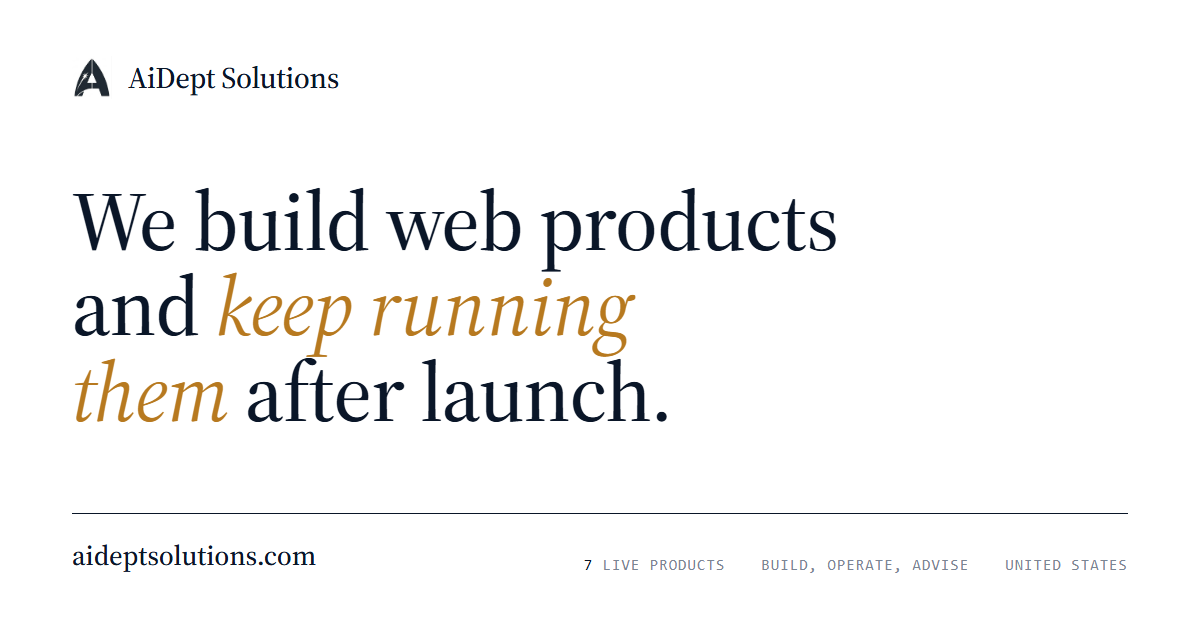
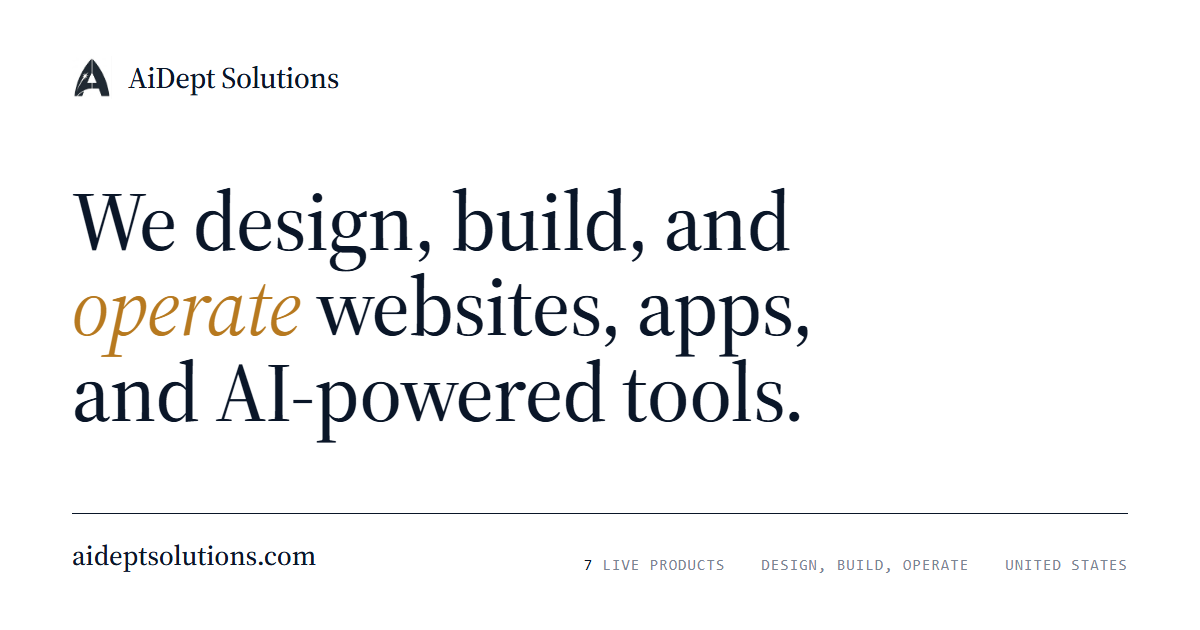
Reframe AiDept as a product studio that designs, builds, and operates
Drop the consulting framing. New headline and meta copy, What we do becomes Design, Build, Operate, process reframed around our own products, FAQ rewritten, contact reframed as Get in touch with matching form options. Remove the ProfessionalService schema and offer catalog; keep Organization and regenerate FAQPage. Re-render the OG card with the new headline.

Changed region(s): [[0.0617, 0.3016, 0.7092, 0.7238], [0.6167, 0.8746, 0.8017, 0.9048]]

diff --git a/index.html b/index.html
@@ -11,8 +11,8 @@
 </script>
 <meta charset="UTF-8">
 <meta name="viewport" content="width=device-width, initial-scale=1.0">
-<title>AiDept Solutions | We build web products and keep running them</title>
-<meta name="description" content="AiDept Solutions is a small operator studio. We design, ship, and run web products and trading systems, built to be found in search and cited by AI answer engines.">
+<title>AiDept Solutions | We design, build, and operate websites, apps, and AI tools</title>
+<meta name="description" content="AiDept Solutions is a product studio. We design, build, and operate our own websites, apps, and AI-powered tools, from consumer sites to trading systems, and keep running them after launch.">
 <meta name="robots" content="index, follow">
 <link rel="canonical" href="https://www.aideptsolutions.com/">
 <link rel="icon" type="image/svg+xml" href="/favicon.svg">
@@ -21,19 +21,19 @@
 
 <!-- Open Graph -->
 <meta property="og:type" content="website">
-<meta property="og:title" content="AiDept Solutions | We build web products and keep running them">
-<meta property="og:description" content="AiDept Solutions is a small operator studio. We design, ship, and run web products and trading systems, built to be found in search and cited by AI answer engines.">
+<meta property="og:title" content="AiDept Solutions | We design, build, and operate websites, apps, and AI tools">
+<meta property="og:description" content="AiDept Solutions is a product studio. We design, build, and operate our own websites, apps, and AI-powered tools, from consumer sites to trading systems, and keep running them after launch.">
 <meta property="og:url" content="https://www.aideptsolutions.com/">
 <meta property="og:site_name" content="AiDept Solutions">
 <meta property="og:image" content="https://www.aideptsolutions.com/og/card.png">
 <meta property="og:image:width" content="1200">
 <meta property="og:image:height" content="630">
-<meta property="og:image:alt" content="AiDept Solutions: we build web products and keep running them after launch.">
+<meta property="og:image:alt" content="AiDept Solutions: we design, build, and operate websites, apps, and AI-powered tools.">
 
 <!-- Twitter -->
 <meta name="twitter:card" content="summary_large_image">
-<meta name="twitter:title" content="AiDept Solutions | We build web products and keep running them">
-<meta name="twitter:description" content="AiDept Solutions is a small operator studio. We design, ship, and run web products and trading systems, built to be found in search and cited by AI answer engines.">
+<meta name="twitter:title" content="AiDept Solutions | We design, build, and operate websites, apps, and AI tools">
+<meta name="twitter:description" content="AiDept Solutions is a product studio. We design, build, and operate our own websites, apps, and AI-powered tools, from consumer sites to trading systems, and keep running them after launch.">
 <meta name="twitter:image" content="https://www.aideptsolutions.com/og/card.png">
 
 <link rel="preconnect" href="https://fonts.googleapis.com">
@@ -46,62 +46,18 @@
   "@type": "Organization",
   "name": "AiDept Solutions",
   "url": "https://www.aideptsolutions.com",
-  "description": "AiDept Solutions is a small operator studio. We design, ship, and run web products and trading systems, built to be found in search and cited by AI answer engines.",
+  "description": "AiDept Solutions is a product studio. We design, build, and operate our own websites, apps, and AI-powered tools, from consumer sites to trading systems, and keep running them after launch.",
   "email": "AJ@aideptsolutions.com",
   "areaServed": "United States",
   "knowsAbout": [
-    "Web product development",
-    "Managed product operations",
+    "Website and web app design",
+    "Product development",
+    "AI agents and automation",
+    "Algorithmic trading systems",
     "Search engine optimization",
     "Answer engine optimization",
-    "Paid media and return on ad spend",
-    "Custom AI agents and automation",
-    "Algorithmic trading systems",
-    "AI strategy advisory"
+    "Product operations"
   ]
-}
-</script>
-
-<script type="application/ld+json">
-{
-  "@context": "https://schema.org",
-  "@type": "ProfessionalService",
-  "name": "AiDept Solutions",
-  "url": "https://www.aideptsolutions.com",
-  "description": "AiDept Solutions builds and operates web products: product and site builds, managed operations and growth, search and answer-engine optimization, paid media, custom AI agents, and AI strategy advisory.",
-  "priceRange": "$$",
-  "email": "AJ@aideptsolutions.com",
-  "areaServed": {
-    "@type": "Country",
-    "name": "United States"
-  },
-  "hasOfferCatalog": {
-    "@type": "OfferCatalog",
-    "name": "Build, Operate, Advise",
-    "itemListElement": [
-      {
-        "@type": "Offer",
-        "itemOffered": {
-          "@type": "Service",
-          "name": "Build: web products, sites, custom AI agents and automation"
-        }
-      },
-      {
-        "@type": "Offer",
-        "itemOffered": {
-          "@type": "Service",
-          "name": "Operate: managed operations, SEO and answer-engine optimization, paid media"
-        }
-      },
-      {
-        "@type": "Offer",
-        "itemOffered": {
-          "@type": "Service",
-          "name": "Advise: AI strategy, vendor and tool vetting, governance and policy"
-        }
-      }
-    ]
-  }
 }
 </script>
 
@@ -112,50 +68,42 @@
   "mainEntity": [
     {
       "@type": "Question",
-      "name": "Do you take on outside work, or only build your own?",
+      "name": "What is AiDept Solutions?",
       "acceptedAnswer": {
         "@type": "Answer",
-        "text": "Both. Most of our time goes into our own products. We also take on a small number of build-and-operate engagements each year, plus advisory for teams that want guidance without a build."
+        "text": "A small product studio that designs, builds, and operates its own websites, apps, and AI-powered tools. Seven products are live today, plus the trading systems above. Everything on this page is ours."
       }
     },
     {
       "@type": "Question",
-      "name": "What does \"answer engine optimization\" mean?",
+      "name": "Do you take on outside projects?",
       "acceptedAnswer": {
         "@type": "Answer",
-        "text": "Getting your business cited in answers from ChatGPT, Google AI Overviews, and Perplexity. More people now ask an AI instead of scrolling results. We structure content, data, and schema so those engines pull from you."
+        "text": "Occasionally, by referral, when a project fits what we already build. Most of our time goes into our own products."
       }
     },
     {
       "@type": "Question",
-      "name": "How do you improve return on ad spend?",
+      "name": "Why does a product studio build trading systems?",
       "acceptedAnswer": {
         "@type": "Answer",
-        "text": "The whole funnel has to work, so we tighten targeting and creative, fix the landing pages and tracking in between, and send paid traffic only to pages built to convert."
+        "text": "They are the hardest software we make: live data, real money, and an unforgiving scoreboard. The discipline they demand, prove the edge first, cap the downside, log everything, carries into every product we ship."
       }
     },
     {
       "@type": "Question",
-      "name": "Do you operate things ongoing, or hand off after launch?",
+      "name": "What does answer engine optimization mean for your products?",
       "acceptedAnswer": {
         "@type": "Answer",
-        "text": "Operating is the default. We run our own products daily, and we offer the same managed operations for anything we build: monitoring, content, search upkeep, performance tuning, and steady iteration."
+        "text": "People increasingly ask ChatGPT, Google AI Overviews, or Perplexity instead of scrolling results. We structure each product's content, data, and schema so those engines can cite it, alongside conventional search."
       }
     },
     {
       "@type": "Question",
-      "name": "Do you push specific vendors or platforms?",
+      "name": "How is user data handled across your products?",
       "acceptedAnswer": {
         "@type": "Answer",
-        "text": "No. We build on whatever fits your stack, budget, and goals, and we take no referral fees. Our incentive is your results."
-      }
-    },
-    {
-      "@type": "Question",
-      "name": "How is data handled?",
-      "acceptedAnswer": {
-        "@type": "Answer",
-        "text": "Every engagement starts with a data-handling review. We use reputable platforms with proper data-processing terms, apply access controls and PII handling, and write a plain-English policy your team can follow."
+        "text": "Each product collects the minimum it needs. Calculators like DollarShuffle store nothing a visitor enters. Where accounts exist, data sits with reputable providers under proper data-processing terms, with access controls and a plain-English privacy policy."
       }
     }
   ]
@@ -389,24 +337,24 @@
     <a href="#top" class="brand"><img src="/favicon.svg" alt=""> AiDept Solutions</a>
     <div class="nav-links">
       <a href="#work">Work</a>
-      <a href="#services">Services</a>
+      <a href="#services">What we do</a>
       <a href="#tools">Tools</a>
       <a href="#process">Process</a>
       <a href="#questions">Questions</a>
     </div>
-    <a href="#contact" class="nav-cta">Start a project</a>
+    <a href="#contact" class="nav-cta">Get in touch</a>
   </div>
 </nav>
 
 <section class="hero" id="top">
   <div class="wrap hero-grid">
     <div>
-      <div class="eyebrow"><span>AiDept Solutions, LLC</span><span>Web products, built and operated</span><span>United States</span></div>
-      <h1>We build web products and <em>keep running them</em> after launch.</h1>
-      <p class="lead">AiDept is a small operator studio. We design, ship, and run our own web products and trading systems. Seven products are live today. Each one is built to be found in Google, cited by AI answer engines, and to earn its keep.</p>
+      <div class="eyebrow"><span>AiDept Solutions, LLC</span><span>Design, build, operate</span><span>United States</span></div>
+      <h1>We design, build, and <em>operate</em> websites, apps, and AI-powered tools.</h1>
+      <p class="lead">AiDept Solutions is a product studio. We make our own websites, apps, and AI tools, ship them to production, and keep running them for the long haul. Seven are live today, alongside the trading systems we run for ourselves.</p>
       <div class="hero-cta">
-        <a href="#contact" class="btn">Start a project <svg class="arrow" viewBox="0 0 14 14" fill="none" stroke="currentColor" stroke-width="1.4"><path d="M2 7h10M8 3l4 4-4 4"/></svg></a>
-        <a href="#work" class="link">See the work</a>
+        <a href="#work" class="btn">See the work <svg class="arrow" viewBox="0 0 14 14" fill="none" stroke="currentColor" stroke-width="1.4"><path d="M2 7h10M8 3l4 4-4 4"/></svg></a>
+        <a href="#contact" class="link">Get in touch</a>
       </div>
     </div>
     <aside class="operating">
@@ -439,7 +387,7 @@
       <div class="sec-label">01 / The work</div>
       <div>
         <h2>Products we operate ourselves.</h2>
-        <p class="lead">Everything here was designed, built, launched, and is run day to day by the same people you would work with. That is the proof we offer instead of a slide deck.</p>
+        <p class="lead">Everything here was designed, built, launched, and is run day to day by the same small team. The products are the proof.</p>
       </div>
     </div>
 
@@ -538,7 +486,7 @@
       <div class="sec-label">02 / AI tools</div>
       <div>
         <h2>Trading systems and agents we built.</h2>
-        <p class="lead">Internal tools, built with the same discipline as the products. An edge has to be proven on data before money moves, and every system runs under loss caps and a kill switch that a human controls.</p>
+        <p class="lead">Our own systems, built with the same discipline as the products. An edge has to be proven on data before money moves, and every system runs under loss caps and a kill switch that a human controls.</p>
       </div>
     </div>
     <div class="ledger">
@@ -599,39 +547,39 @@
     <div class="sec-head">
       <div class="sec-label">03 / What we do</div>
       <div>
-        <h2>Three ways to work with us.</h2>
-        <p class="lead">Most engagements are build-and-operate. Advisory is there for teams who would rather build in-house with someone experienced in the room.</p>
+        <h2>Design, build, operate.</h2>
+        <p class="lead">Three disciplines, one team. Every product goes through all three, and the same people stay with it after launch.</p>
       </div>
     </div>
     <div class="offers">
       <div class="offer">
         <div class="n">01</div>
-        <h3>Build</h3>
-        <p>Web apps, tools, and marketing sites, designed and shipped to production on Next.js, Vercel, and Supabase. Structured for search and AI answer engines from the first commit, with conversion tracking wired before launch day.</p>
+        <h3>Design</h3>
+        <p>Every product starts as a problem worth solving and a page someone would actually use. We design the flows, the interface, and the content structure before writing code, with search and AI answer engines in mind from the first sketch.</p>
         <ul>
-          <li>Product and site builds</li>
-          <li>Custom AI agents and automation</li>
-          <li>Data handling, access, and governance</li>
+          <li>Product and interface design</li>
+          <li>Content and information architecture</li>
+          <li>Brand and visual systems</li>
         </ul>
       </div>
       <div class="offer">
         <div class="n">02</div>
-        <h3>Operate</h3>
-        <p>Launch is where most shops leave. We stay. Monitoring, content, search and answer-engine upkeep, performance tuning, and paid media that returns more than it costs. The product keeps compounding.</p>
+        <h3>Build</h3>
+        <p>Websites, web apps, and AI-powered tools, shipped to production on Next.js, Vercel, and Supabase. Agents and automation run on Claude, GPT, and open models. Tracking and analytics are wired before launch, never after.</p>
         <ul>
-          <li>Managed operations and growth</li>
-          <li>SEO and answer-engine optimization</li>
-          <li>Paid media and return on ad spend</li>
+          <li>Websites and web apps</li>
+          <li>AI agents and automation</li>
+          <li>Trading and data systems</li>
         </ul>
       </div>
       <div class="offer">
         <div class="n">03</div>
-        <h3>Advise</h3>
-        <p>Senior guidance on retainer. Roadmap, vendor and tool selection, and a plain-English AI use policy your staff can follow. A sounding board for leadership that has seen these decisions play out in production.</p>
+        <h3>Operate</h3>
+        <p>Launch is the start. We monitor, publish, tune, and iterate on everything we ship: uptime, content, search and answer-engine upkeep, performance, and the numbers that say whether a product is earning its keep.</p>
         <ul>
-          <li>AI strategy and roadmap</li>
-          <li>Vendor and tool vetting</li>
-          <li>Governance and policy</li>
+          <li>Monitoring and reliability</li>
+          <li>Content and search upkeep</li>
+          <li>Growth and iteration</li>
         </ul>
       </div>
     </div>
@@ -643,15 +591,15 @@
     <div class="sec-head">
       <div class="sec-label">04 / Process</div>
       <div>
-        <h2>How an engagement runs.</h2>
-        <p class="lead">Four phases, each with a defined deliverable, so you always know what you are paying for and what comes next.</p>
+        <h2>How a product gets made here.</h2>
+        <p class="lead">Four phases, from a question to a product that runs on its own. Each has a gate, so nothing ships before it has earned it.</p>
       </div>
     </div>
     <div class="steps">
-      <div class="step"><div class="n">1</div><h3>Scope</h3><p>A working session to pin down the goal, the audience, and the number that matters. You leave with a scope, a timeline, and a target metric.</p></div>
-      <div class="step"><div class="n">2</div><h3>Build</h3><p>We design and ship on a modern stack, structured for search from day one, with clean tracking in place before anything goes live.</p></div>
-      <div class="step"><div class="n">3</div><h3>Launch</h3><p>Deploy to production, connect analytics and channels, and confirm the funnel converts before we call it live.</p></div>
-      <div class="step"><div class="n">4</div><h3>Operate</h3><p>Monitoring, content, search upkeep, and return-on-spend tuning. The product keeps improving instead of going stale after handoff.</p></div>
+      <div class="step"><div class="n">1</div><h3>Idea</h3><p>Start with a real question: who needs this, what would they search for, and how does it pay for itself. If the answer is weak, the idea stops here.</p></div>
+      <div class="step"><div class="n">2</div><h3>Build</h3><p>Design and ship on a modern stack, structured for search from day one, with clean tracking in place before anything goes live.</p></div>
+      <div class="step"><div class="n">3</div><h3>Launch</h3><p>Deploy to production, connect analytics and channels, and confirm real people can find it and use it before calling it live.</p></div>
+      <div class="step"><div class="n">4</div><h3>Operate and grow</h3><p>Monitoring, content, search upkeep, and tuning. The product keeps improving instead of going stale.</p></div>
     </div>
   </div>
 </section>
@@ -664,28 +612,24 @@
     </div>
     <div class="faq">
       <details open>
-        <summary>Do you take on outside work, or only build your own?</summary>
-        <div class="a">Both. Most of our time goes into our own products. We also take on a small number of build-and-operate engagements each year, plus advisory for teams that want guidance without a build.</div>
+        <summary>What is AiDept Solutions?</summary>
+        <div class="a">A small product studio that designs, builds, and operates its own websites, apps, and AI-powered tools. Seven products are live today, plus the trading systems above. Everything on this page is ours.</div>
       </details>
       <details>
-        <summary>What does "answer engine optimization" mean?</summary>
-        <div class="a">Getting your business cited in answers from ChatGPT, Google AI Overviews, and Perplexity. More people now ask an AI instead of scrolling results. We structure content, data, and schema so those engines pull from you.</div>
+        <summary>Do you take on outside projects?</summary>
+        <div class="a">Occasionally, by referral, when a project fits what we already build. Most of our time goes into our own products.</div>
       </details>
       <details>
-        <summary>How do you improve return on ad spend?</summary>
-        <div class="a">The whole funnel has to work, so we tighten targeting and creative, fix the landing pages and tracking in between, and send paid traffic only to pages built to convert.</div>
+        <summary>Why does a product studio build trading systems?</summary>
+        <div class="a">They are the hardest software we make: live data, real money, and an unforgiving scoreboard. The discipline they demand, prove the edge first, cap the downside, log everything, carries into every product we ship.</div>
       </details>
       <details>
-        <summary>Do you operate things ongoing, or hand off after launch?</summary>
-        <div class="a">Operating is the default. We run our own products daily, and we offer the same managed operations for anything we build: monitoring, content, search upkeep, performance tuning, and steady iteration.</div>
+        <summary>What does answer engine optimization mean for your products?</summary>
+        <div class="a">People increasingly ask ChatGPT, Google AI Overviews, or Perplexity instead of scrolling results. We structure each product's content, data, and schema so those engines can cite it, alongside conventional search.</div>
       </details>
       <details>
-        <summary>Do you push specific vendors or platforms?</summary>
-        <div class="a">No. We build on whatever fits your stack, budget, and goals, and we take no referral fees. Our incentive is your results.</div>
-      </details>
-      <details>
-        <summary>How is data handled?</summary>
-        <div class="a">Every engagement starts with a data-handling review. We use reputable platforms with proper data-processing terms, apply access controls and PII handling, and write a plain-English policy your team can follow.</div>
+        <summary>How is user data handled across your products?</summary>
+        <div class="a">Each product collects the minimum it needs. Calculators like DollarShuffle store nothing a visitor enters. Where accounts exist, data sits with reputable providers under proper data-processing terms, with access controls and a plain-English privacy policy.</div>
       </details>
     </div>
   </div>
@@ -695,13 +639,13 @@
   <div class="wrap contact-grid">
     <div>
       <div class="sec-label" style="padding-top:0;margin-bottom:20px">06 / Contact</div>
-      <h2>Tell us what you want to build, run, or grow.</h2>
-      <p class="lead" style="margin-top:22px">We will come back with a scoped plan, a timeline, and the outcome we would aim for. Email is the fastest way to reach us.</p>
+      <h2>Get in touch.</h2>
+      <p class="lead" style="margin-top:22px">Partnerships, questions about a product, press, or a project you think fits what we build. Email is the fastest way to reach us.</p>
       <a class="email-big" href="mailto:AJ@aideptsolutions.com">AJ@aideptsolutions.com</a>
       <ul class="facts">
-        <li><span>Based</span><span>United States. Remote engagements nationwide.</span></li>
+        <li><span>Based</span><span>United States. Fully remote.</span></li>
         <li><span>Response</span><span>Within one business day.</span></li>
-        <li><span>Stack</span><span>Next.js, Vercel, Supabase, Claude, GPT. Vendor-neutral by policy.</span></li>
+        <li><span>Stack</span><span>Next.js, Vercel, Supabase, Claude, GPT.</span></li>
       </ul>
     </div>
     <form id="contactForm" action="https://formspree.io/f/xykankvd" method="POST">
@@ -717,18 +661,16 @@
         <label for="interest">What brings you here</label>
         <select id="interest" name="interest">
           <option value="">Select one</option>
-          <option>New web tool, product, or site build</option>
-          <option>Managed operations and growth</option>
-          <option>SEO and answer-engine optimization</option>
-          <option>Paid media and return on ad spend</option>
-          <option>Custom AI agent or automation</option>
-          <option>AI strategy advisory</option>
+          <option>Partnership or collaboration</option>
+          <option>Question about one of our products</option>
+          <option>A project that fits what you build</option>
+          <option>Press or speaking</option>
           <option>Other</option>
         </select>
       </div>
       <div class="field">
-        <label for="message">What are you trying to build or grow?</label>
-        <textarea id="message" name="message" placeholder="A sentence or two on what you do and the goal you have in mind."></textarea>
+        <label for="message">What is on your mind?</label>
+        <textarea id="message" name="message" placeholder="A sentence or two is plenty."></textarea>
       </div>
       <button type="submit" class="btn">Send message <svg class="arrow" viewBox="0 0 14 14" fill="none" stroke="currentColor" stroke-width="1.4"><path d="M2 7h10M8 3l4 4-4 4"/></svg></button>
       <p class="form-note">We reply from AJ@aideptsolutions.com within one business day.</p>
@@ -739,7 +681,7 @@
 <footer>
   <div class="wrap foot">
     <a href="#top" class="brand"><img src="/favicon.svg" alt=""> AiDept Solutions</a>
-    <div class="foot-links"><a href="#work">Work</a><a href="#tools">Tools</a><a href="#services">Services</a><a href="mailto:AJ@aideptsolutions.com">Email</a></div>
+    <div class="foot-links"><a href="#work">Work</a><a href="#tools">Tools</a><a href="#services">What we do</a><a href="mailto:AJ@aideptsolutions.com">Email</a></div>
     <span>&copy; 2026 AiDept Solutions, LLC</span>
   </div>
 </footer>

diff --git a/og/card.html b/og/card.html
@@ -26,10 +26,10 @@
 <body>
 <div class="card">
   <div class="brand"><img src="/favicon.svg" alt=""> AiDept Solutions</div>
-  <h1>We build web products and <em>keep running them</em> after launch.</h1>
+  <h1>We design, build, and <em>operate</em> websites, apps, and AI-powered tools.</h1>
   <div class="foot">
     <div class="url">aideptsolutions.com</div>
-    <div class="facts"><span><b>7</b> live products</span><span>Build, operate, advise</span><span>United States</span></div>
+    <div class="facts"><span><b>7</b> live products</span><span>Design, build, operate</span><span>United States</span></div>
   </div>
 </div>
 </body>
